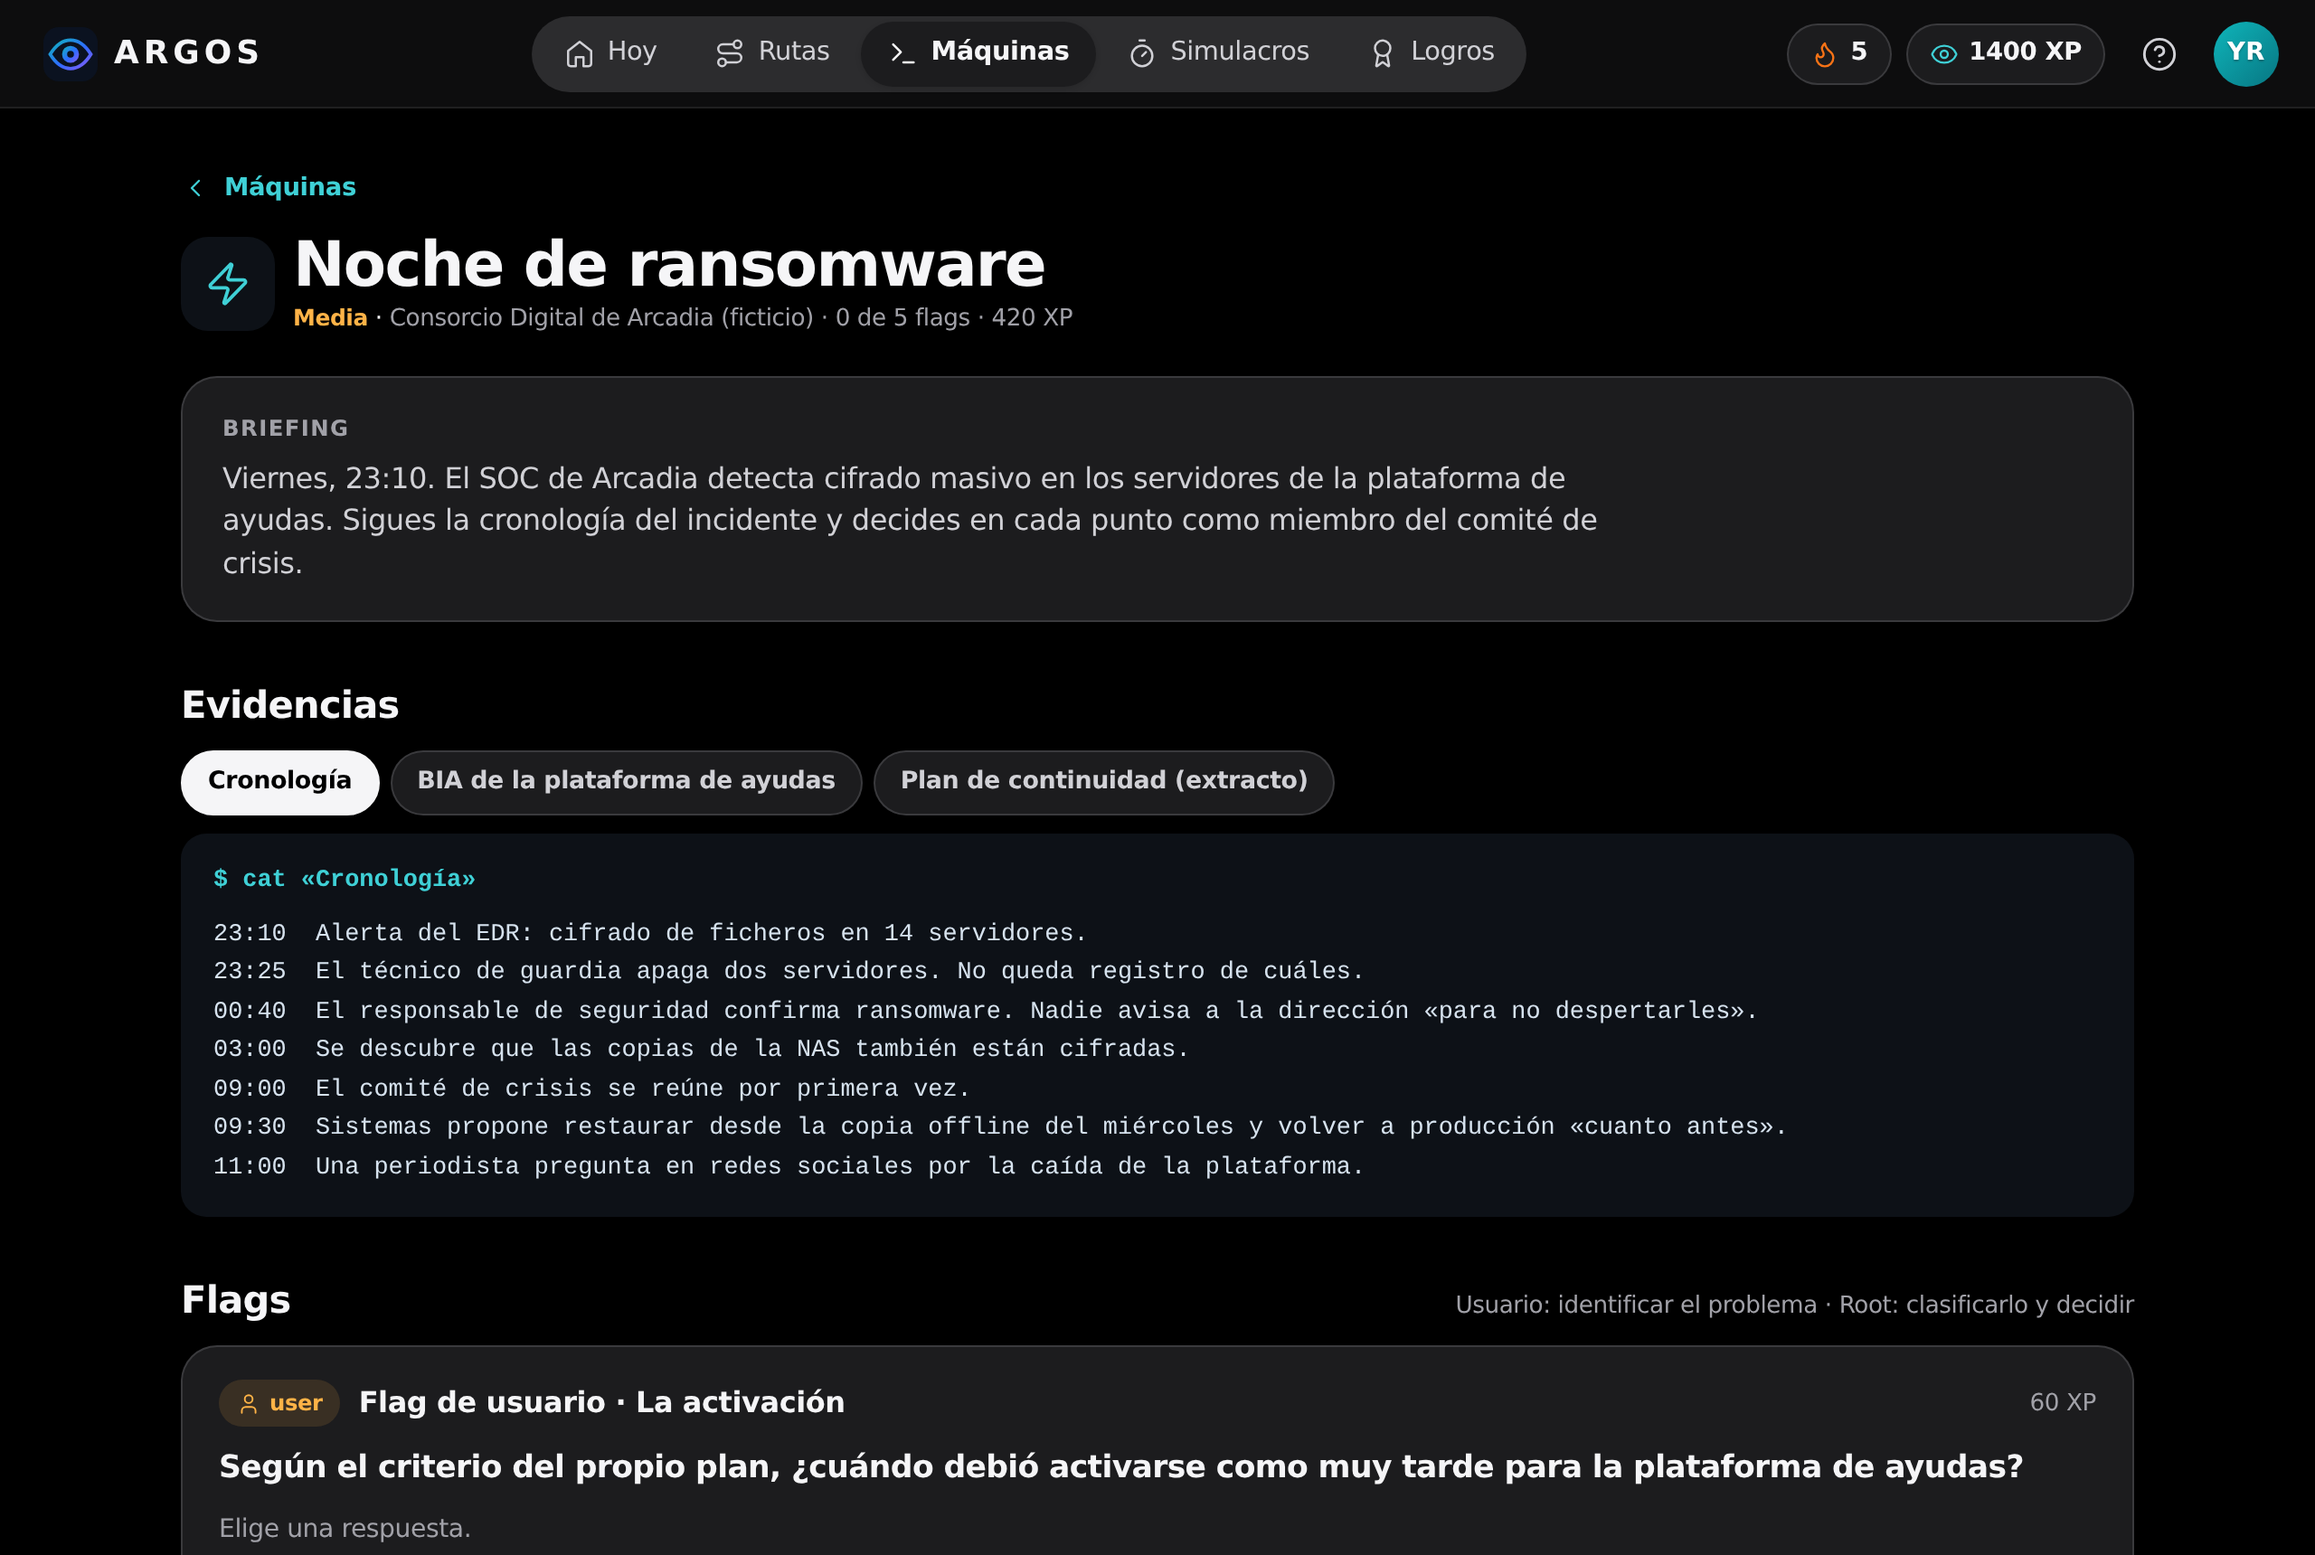
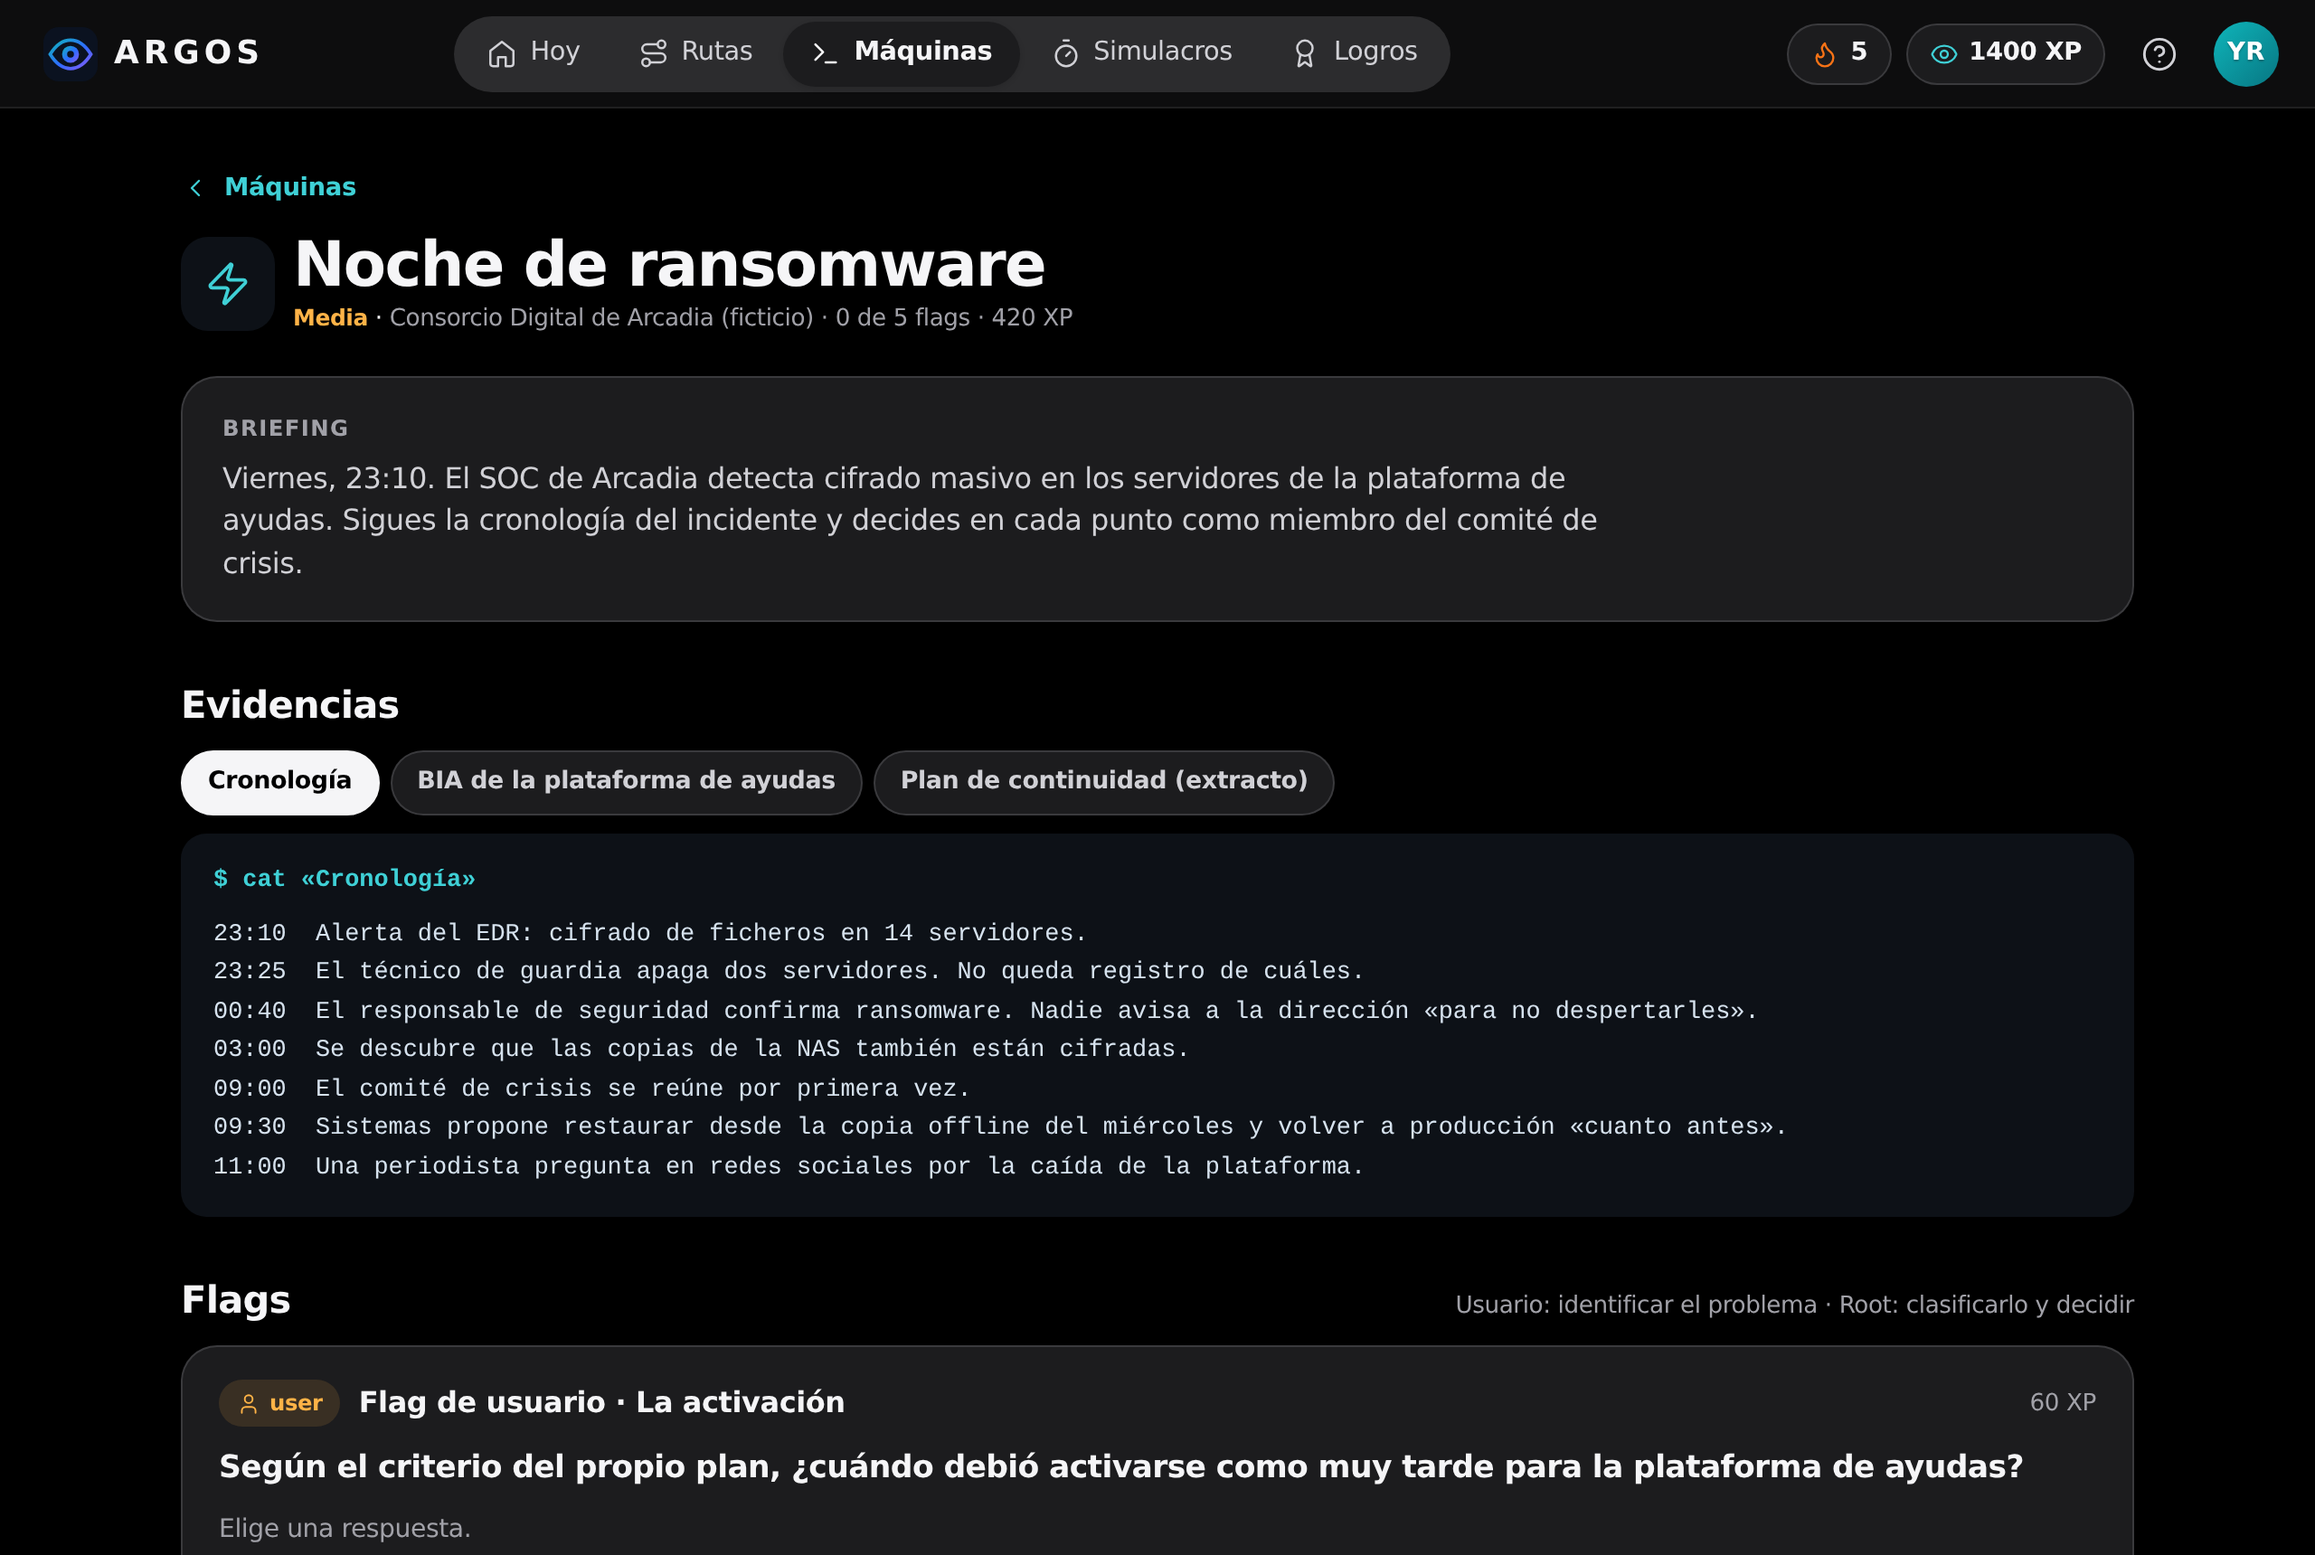
Barra superior en móvil: racha, ayuda y perfil alineados a la derecha

Changed region(s): [[0.1875, 0.0, 0.6562, 0.0616]]

diff --git a/dist/index.html b/dist/index.html
@@ -2,7 +2,7 @@
 <html lang="es">
 <head>
 <meta charset="utf-8">
-<meta http-equiv="Content-Security-Policy" content="default-src 'none'; script-src 'sha256-/Ob1Ch4lTNvRdAcIvWX4fFD/CxH6VdMRdrLrnNLZhZQ=' 'sha256-ziz1MA0aR07c6QVBDNTqMSs3Tmt2pdOjIuAE2BezNss=' 'sha256-qG0rQxCEmTVegoeAi5TvD43IAix/FNzOb0JICDSXg+c='; style-src 'sha256-qMDrpgc45qhtBI4YlDrELXMsR+J4ozygAtG1q5M21hg='; style-src-attr 'unsafe-inline'; font-src 'none'; img-src data: blob:; connect-src 'none'; media-src 'none'; object-src 'none'; frame-src 'none'; worker-src 'none'; manifest-src 'none'; base-uri 'none'; form-action 'none'">
+<meta http-equiv="Content-Security-Policy" content="default-src 'none'; script-src 'sha256-/Ob1Ch4lTNvRdAcIvWX4fFD/CxH6VdMRdrLrnNLZhZQ=' 'sha256-ziz1MA0aR07c6QVBDNTqMSs3Tmt2pdOjIuAE2BezNss=' 'sha256-qG0rQxCEmTVegoeAi5TvD43IAix/FNzOb0JICDSXg+c='; style-src 'sha256-HARDonMw46e2QfAht2PsxD69zkhnS7Ce+C6BZKUTtmk='; style-src-attr 'unsafe-inline'; font-src 'none'; img-src data: blob:; connect-src 'none'; media-src 'none'; object-src 'none'; frame-src 'none'; worker-src 'none'; manifest-src 'none'; base-uri 'none'; form-action 'none'">
 <meta name="referrer" content="no-referrer">
 <meta name="viewport" content="width=device-width, initial-scale=1, viewport-fit=cover">
 <meta name="color-scheme" content="light dark">
@@ -94,7 +94,7 @@ img, svg { display: block; }
 .nav button { display: flex; align-items: center; gap: 7px; height: 36px; padding: 0 15px; border: 0; border-radius: 999px; background: none; color: var(--ink-2); font-size: .9rem; font-weight: 500; transition: background .2s var(--ease), color .2s var(--ease); }
 .nav button:hover { color: var(--ink); }
 .nav button[aria-current="page"] { background: var(--card); color: var(--ink); font-weight: 600; box-shadow: 0 1px 3px rgba(0, 0, 0, .12); }
-.top-end { display: flex; align-items: center; gap: 8px; }
+.top-end { display: flex; align-items: center; gap: 8px; margin-left: auto; }
 .chip { display: inline-flex; align-items: center; gap: 6px; height: 34px; padding: 0 12px; border-radius: 999px; background: var(--card); border: .5px solid var(--sep); font-size: .86rem; font-weight: 600; color: var(--ink); white-space: nowrap; }
 button.chip { cursor: pointer; } button.chip:hover { background: var(--card-2); }
 .chip .ic { color: var(--muted); }

diff --git a/app/src/styles.css b/app/src/styles.css
@@ -80,7 +80,7 @@ img, svg { display: block; }
 .nav button { display: flex; align-items: center; gap: 7px; height: 36px; padding: 0 15px; border: 0; border-radius: 999px; background: none; color: var(--ink-2); font-size: .9rem; font-weight: 500; transition: background .2s var(--ease), color .2s var(--ease); }
 .nav button:hover { color: var(--ink); }
 .nav button[aria-current="page"] { background: var(--card); color: var(--ink); font-weight: 600; box-shadow: 0 1px 3px rgba(0, 0, 0, .12); }
-.top-end { display: flex; align-items: center; gap: 8px; }
+.top-end { display: flex; align-items: center; gap: 8px; margin-left: auto; }
 .chip { display: inline-flex; align-items: center; gap: 6px; height: 34px; padding: 0 12px; border-radius: 999px; background: var(--card); border: .5px solid var(--sep); font-size: .86rem; font-weight: 600; color: var(--ink); white-space: nowrap; }
 button.chip { cursor: pointer; } button.chip:hover { background: var(--card-2); }
 .chip .ic { color: var(--muted); }

diff --git a/dist/artifact/argos.html b/dist/artifact/argos.html
@@ -83,7 +83,7 @@ img, svg { display: block; }
 .nav button { display: flex; align-items: center; gap: 7px; height: 36px; padding: 0 15px; border: 0; border-radius: 999px; background: none; color: var(--ink-2); font-size: .9rem; font-weight: 500; transition: background .2s var(--ease), color .2s var(--ease); }
 .nav button:hover { color: var(--ink); }
 .nav button[aria-current="page"] { background: var(--card); color: var(--ink); font-weight: 600; box-shadow: 0 1px 3px rgba(0, 0, 0, .12); }
-.top-end { display: flex; align-items: center; gap: 8px; }
+.top-end { display: flex; align-items: center; gap: 8px; margin-left: auto; }
 .chip { display: inline-flex; align-items: center; gap: 6px; height: 34px; padding: 0 12px; border-radius: 999px; background: var(--card); border: .5px solid var(--sep); font-size: .86rem; font-weight: 600; color: var(--ink); white-space: nowrap; }
 button.chip { cursor: pointer; } button.chip:hover { background: var(--card-2); }
 .chip .ic { color: var(--muted); }

diff --git a/tests/e2e_app.py b/tests/e2e_app.py
@@ -319,6 +319,7 @@ def main():
         mp = m.new_page(); offline(mp)
         mp.goto(APP + "?test"); mp.wait_for_selector("#view h1")
         ok(mp.locator("#tabbar").is_visible() and not mp.locator(".nav").is_visible(), "En móvil se usa la barra de pestañas inferior")
+        ok(mp.evaluate("innerWidth - document.querySelector('.top-end').getBoundingClientRect().right") <= 24, "En móvil, racha, ayuda y perfil quedan alineados a la derecha de la barra superior")
         for v in ["hoy", "rutas", "maquinas", "simulacros", "logros", "perfil", "ayuda"]:
             mp.evaluate(f"window.__ARGOS__.go('{v}')")
             ok(mp.evaluate("document.documentElement.scrollWidth <= window.innerWidth"), f"{v}: sin desplazamiento horizontal")
